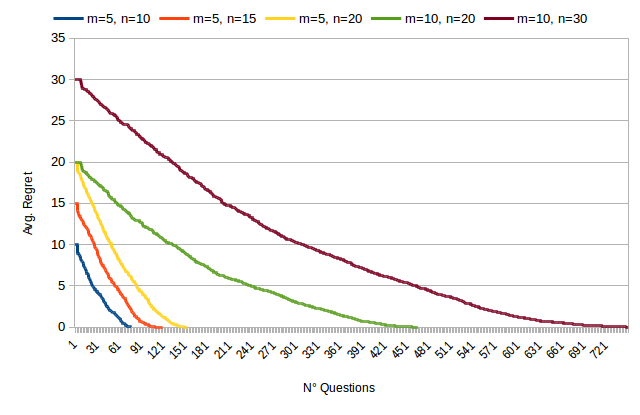
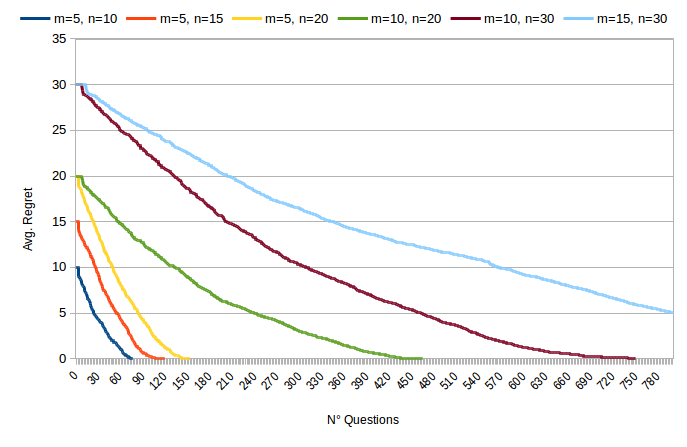
related work

diff --git a/minimax.tex b/minimax.tex
@@ -138,7 +138,7 @@ The traditional approach to social choice assumes that both the social choice fu
 Requiring agents to express full preference orderings can be prohibitively costly (in terms of cognitive and communication cost).
 This observation has motivated a number of recent works considering social choice with partial preference orders \citep{Xia2008, Pini2009, Konczak05} and incremental elicitation \citep{Kalech2011, Lu2011, Naamani-Dery2015,Benabbou2016} of agent preferences. \\ Furthermore, it is often difficult for non-expert users to formalize a voting rule on the basis of some generic preferences over a desired aggregation method. Thus, the first hypothesis should also be relaxed. 
 %Also the first hypothesis should be relaxed considering that, in several situations, it may not be easy to precisely define the voting rule.Indeed, it is possible that the chair has some preferences over the desired aggregation method, but is not able to formalize the voting rule upfront.
-When considering positional scoring rules, several authors \citep{Stein1994, Llamazares2013, Viappiani2018} have worked on positional scoring rules with uncertain weights, assuming that the preferences of the agents are fully known.
+
 %it is possible to derive dominance relations (akin to stochastic dominance) that allow to eliminate some alternatives since they will be less preferred than another one for any instantiation of the weights \citep{Stein1994}.
 %Among others, Llamazares and Pe{\~{n}}a have considered  the problem of dealing with underspecified weights in positional scoring rules.
 
@@ -175,9 +175,13 @@ In Section \ref{sec:background} we provide the necessary background and in Secti
 Then, in Section \ref{sec:elicit} we provide an interactive elicitation protocol based on minimal regret;  in Section \ref{sec:experiments} we present the empirical validation of our approach with simulations; and Section \ref{sec:conclusions} provides some final thoughts.
 
 \section{Related Work}
-%The work of \citet{Cailloux2014} provides elicitation methods for a quite general class of rules based on weak orders.
-%it is possible to derive dominance relations (akin to stochastic dominance) that allow to eliminate some alternatives since they will be less preferred than another one for any instantiation of the weights \citep{Stein1994}.
-%Among others, Llamazares and Pe{\~{n}}a have considered  the problem of dealing with underspecified weights in positional scoring rules.
+The recent growing interest in voting theory has also led to an increase in attention to its problems. One of these, the full information assumption; which has driven an increasing number of authors to question its validity. \citet{Conitzer2005} have studied the complexity of communication, using different voting rules, determining lower and upper bounds for it. They showed that, in the worst case, the agents should send their complete set of preference for most of the rule investigated. Considering then, cases where the information of agent preferences is only partial, \citet{Konczak05} have proposed a way to compute possible and necessary winners. They also showed that, even though this computation is hard in the general case, their method is polynomial in case of positional scoring rule. Later on, for the necessary winner problem, other authors have proposed polynomial-time algorithms when using maximin and Bucklin \citep{Xia2008}; sufficient conditions that assure tractability have been proved \citep{Pini2007}; and the uncertainty in weights has been considered \citep{Walsh2007,Viappiani2018}.
+From this starting point several studies on elicitation of agent preferences have been proposed \citep{Naamani-Dery2015,Kalech2011,Lu2011,Pini2009,Benabbou2016,Cailloux2014,Dey2016,Dey2016_2}, and analysis on when to stop the elicitation process have been conducted \citep{Walsh2009,Conitzer2009}. Although more interest 
+
+Although more interest has been shown in the incompleteness of agent preferences, several authors have considered scenarios where the voting rule is partially defined.  \citep{Stein1994, Viappiani2018}. Among others, \citet{Llamazares2013} have considered  the problem of dealing with variable weights in positional scoring rules.
+
+In this context, questions on the manipulability of voting rules have begun to arise. In fact, studies on the reactions of agents after others actions have been proposed \citep{Endriss2016,Dey2018,Dey2018_2}. It is worth precising that, in our work, we consider the agents to give their preferences in a secret way.
+
 
 \section{Social choice with partial information}
 \label{sec:background}
@@ -557,7 +561,7 @@ We next investigate the better performing Limited pessimistic strategy, because 
 			5 & 20 & 2.0 & 110 &  \\
 			10 & 20 & 2.0 & 340 &  \\
 			10 & 30 & 3.0 & 527 &  \\
-			15 & 30 & 3.0 &  &  \\
+			15 & 30 & 3.0 & 919 &  \\
 			\bottomrule
 		\end{tabular}
 	\end{center}
@@ -608,13 +612,13 @@ We observe that the Pessimistic strategy is able to reduce the regret almost com
 			\midrule
 			0 & 0.66 & 0.67 & 0.65 & 0.65  \\
 			50 & 1.23 & 1.46 & 0.8 & 0.79 \\
-			100 & 2.03 & 1.56 &  &  \\
+			100 & 2.03 & 1.56 & 1.88 & 1.02  \\
 			150 & 3.41 & 1.79 & 4.07 & 1.51 \\
-			200 &   &  &  &  \\
-			250 & 8.4 & 1.86 & 	& \\
-			300 &&&& \\
-			350 &&&& \\
-			400 &&&& \\
+			200 & 4.61	& 1.35  & 6.53 & 2.0  \\
+			250 & 8.4 & 1.86 & 	7.69 & 1.24 \\
+			300 &11.07 & 0.86& 11.87 & 1.25 \\
+			350 &&&15.59 & 0.6 \\
+			400 &20.0 & 0.0 & 20.0 & 20.0 \\
 			\bottomrule
 		\end{tabular}
 	\end{center}
